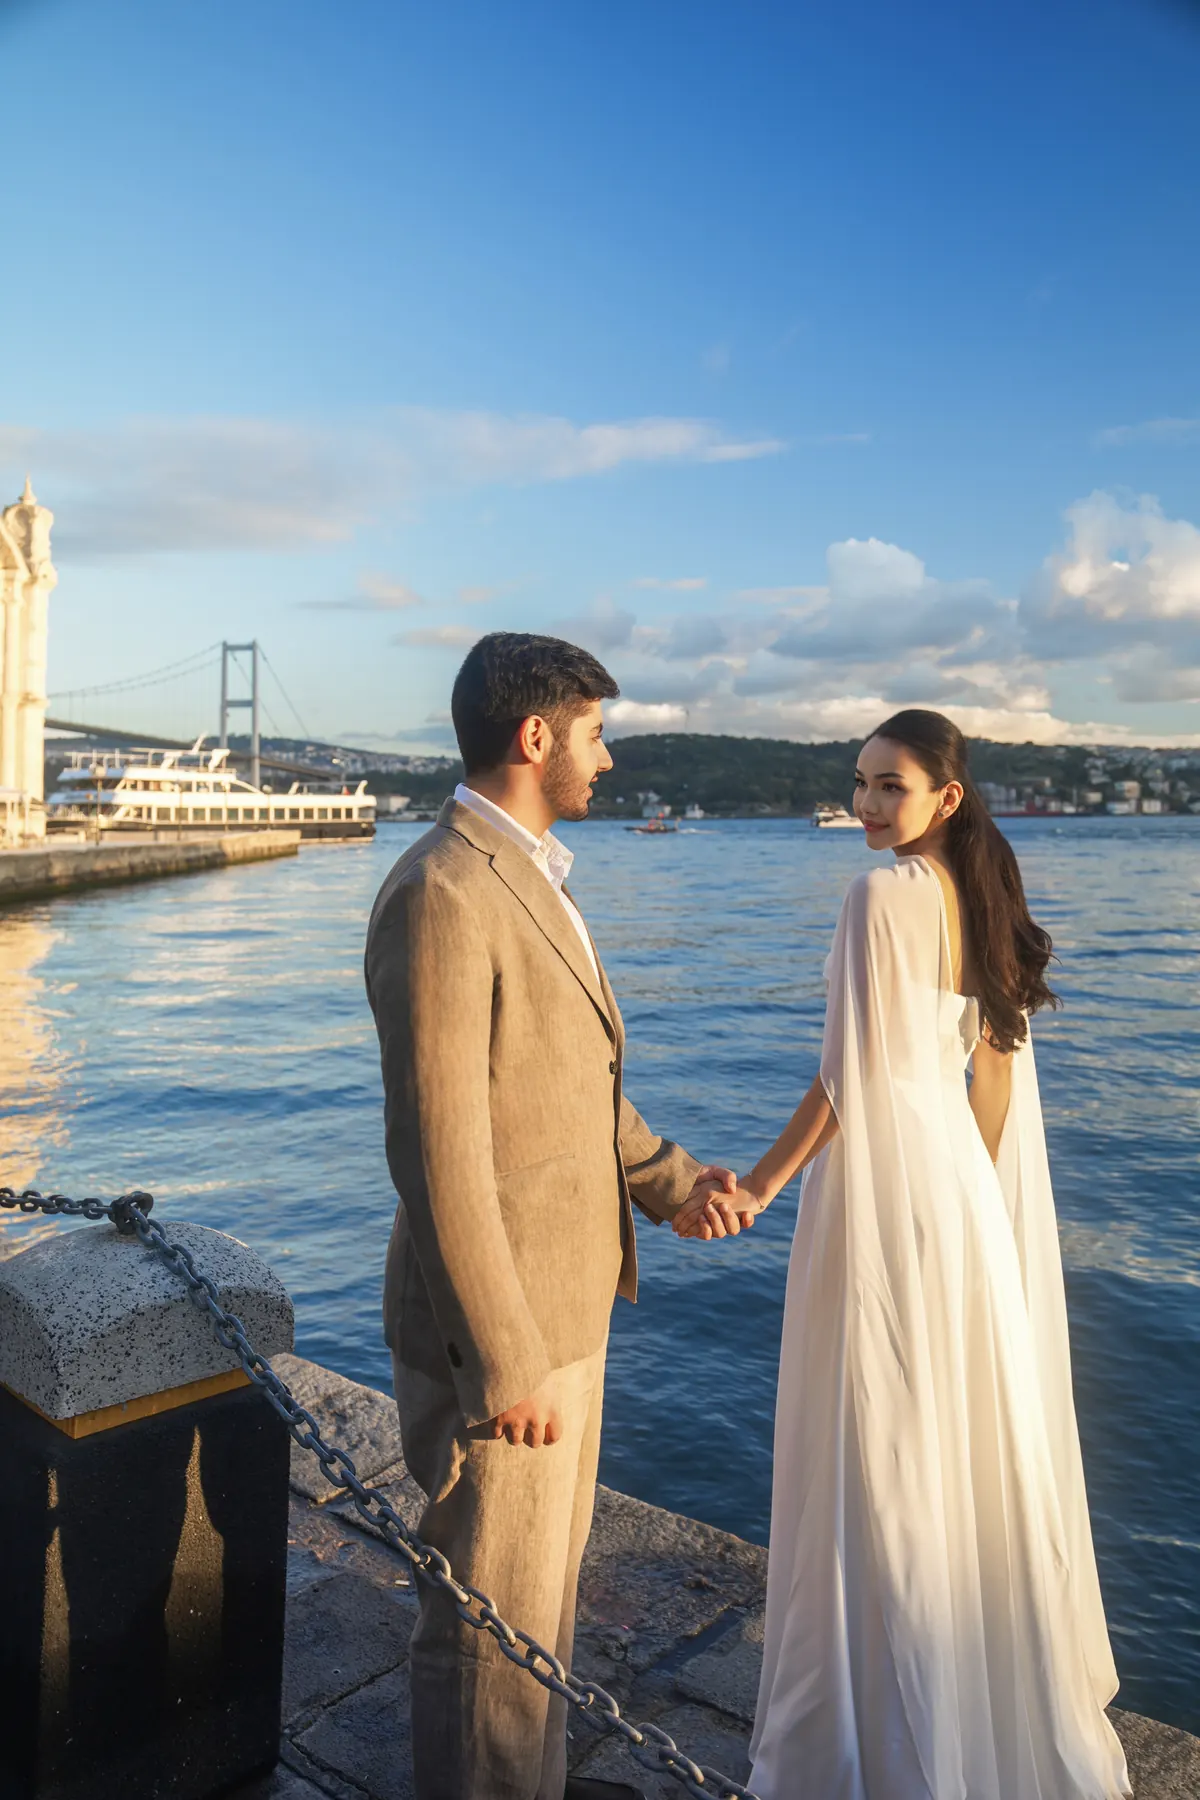
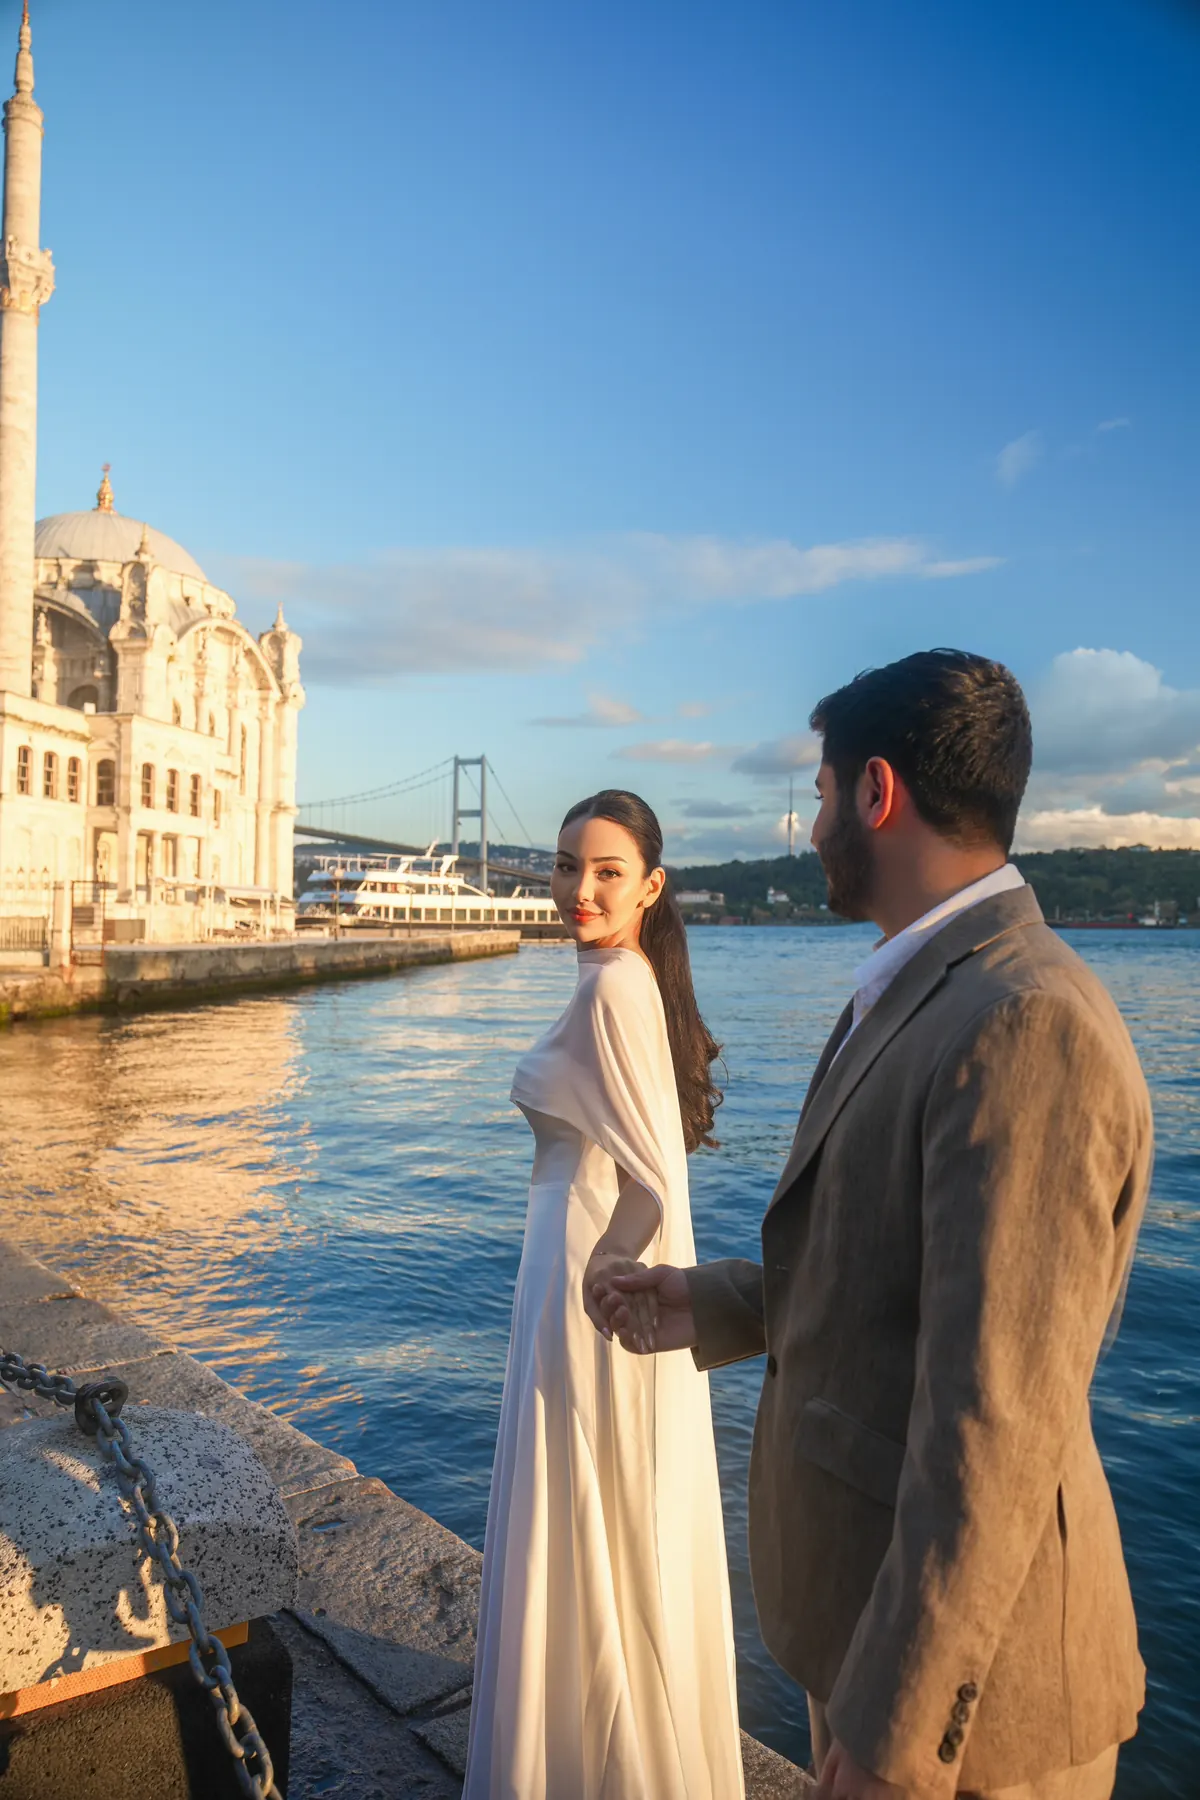
Photo order 9041, 9020, 9100; shorter greeting; no flowers above it

diff --git a/index.html b/index.html
@@ -26,7 +26,7 @@
 <link rel="preload" as="image" href="assets/wreath.webp">
 <link rel="preload" as="image" href="assets/ballroom.webp">
 <link rel="preload" as="image" href="assets/hero.webp">
-<link rel="stylesheet" href="style.css?v=11"><!-- bump ?v= on every change so phones skip their cached copy -->
+<link rel="stylesheet" href="style.css?v=13"><!-- bump ?v= on every change so phones skip their cached copy -->
 
 <script>
 // ===== EDIT ONLY THIS BLOCK =====
@@ -35,7 +35,7 @@ const CONFIG = {
   bride: 'Айнур',
   date: '2026-12-04T18:00:00+05:00',   // ISO, with the venue's timezone offset
   timeZone: 'Asia/Ashgabat',
-  greeting: 'Два сердца, одна судьба. С огромной радостью приглашаем вас разделить с нами самый счастливый день — день, когда начинается наша семья.',
+  greeting: 'С огромной радостью приглашаем вас разделить с нами самый счастливый день — день, когда начинается наша семья.',
   events: [
     { title: 'Свадебное торжество', time: '18:00', place: 'Ресторан «Гуль земин»', address: 'Большой зал «Алтын»' },
   ],
@@ -79,7 +79,7 @@ const CONFIG = {
 <main>
   <!-- Hero: the couple -->
   <section class="hero">
-    <img class="hero-img" src="assets/hero.webp" alt="Вели и Айнур держатся за руки на набережной Босфора">
+    <img class="hero-img" src="assets/hero.webp" alt="Айнур оборачивается, держа Вели за руку">
     <div class="hero-text">
       <p class="kicker">Свадебное торжество</p>
       <h1 class="names">
@@ -93,7 +93,6 @@ const CONFIG = {
   </section>
 
   <div class="paper">
-    <img class="corner corner-top" src="assets/corner-top.webp" alt="" loading="lazy">
     <img class="corner corner-bottom" src="assets/corner-bottom.webp" alt="" loading="lazy">
     <!-- Greeting -->
     <section class="greeting">
@@ -101,7 +100,7 @@ const CONFIG = {
     </section>
 
     <figure class="frame tilt-l">
-      <img src="assets/photo-1.webp" alt="Айнур оборачивается, держа Вели за руку" loading="lazy" width="900" height="1350">
+      <img src="assets/photo-1.webp" alt="Вели и Айнур держатся за руки на набережной Босфора" loading="lazy" width="900" height="1350">
       <figcaption>Вместе — навсегда</figcaption>
     </figure>
 
@@ -159,6 +158,6 @@ const CONFIG = {
 </button>
 <audio id="audio" loop preload="none"></audio>
 
-<script src="script.js?v=11"></script>
+<script src="script.js?v=13"></script>
 </body>
 </html>

diff --git a/style.css b/style.css
@@ -149,11 +149,10 @@ img { display: block; max-width: 100%; }
     url(assets/paper.webp) 0 0 / 360px,
     var(--ivory);
   position: relative; overflow: hidden;
-  padding: 190px 24px;  /* equal sides keep content centred on screen; the 10px velvet strip sits inside the left padding */
+  padding: 40px 24px 190px;  /* equal sides keep content centred on screen; the 10px velvet strip sits inside the left padding */
 }
 .paper > section, .paper > figure { position: relative; z-index: 1; max-width: 520px; margin-inline: auto; }
 .corner { position: absolute; z-index: 0; width: min(60vw, 320px); pointer-events: none; }
-.corner-top { top: -14px; left: 4px; }
 .corner-bottom { bottom: -10px; right: -6px; }
 section { text-align: center; }
 .greeting, .date, .venue { padding: 64px 0; }
